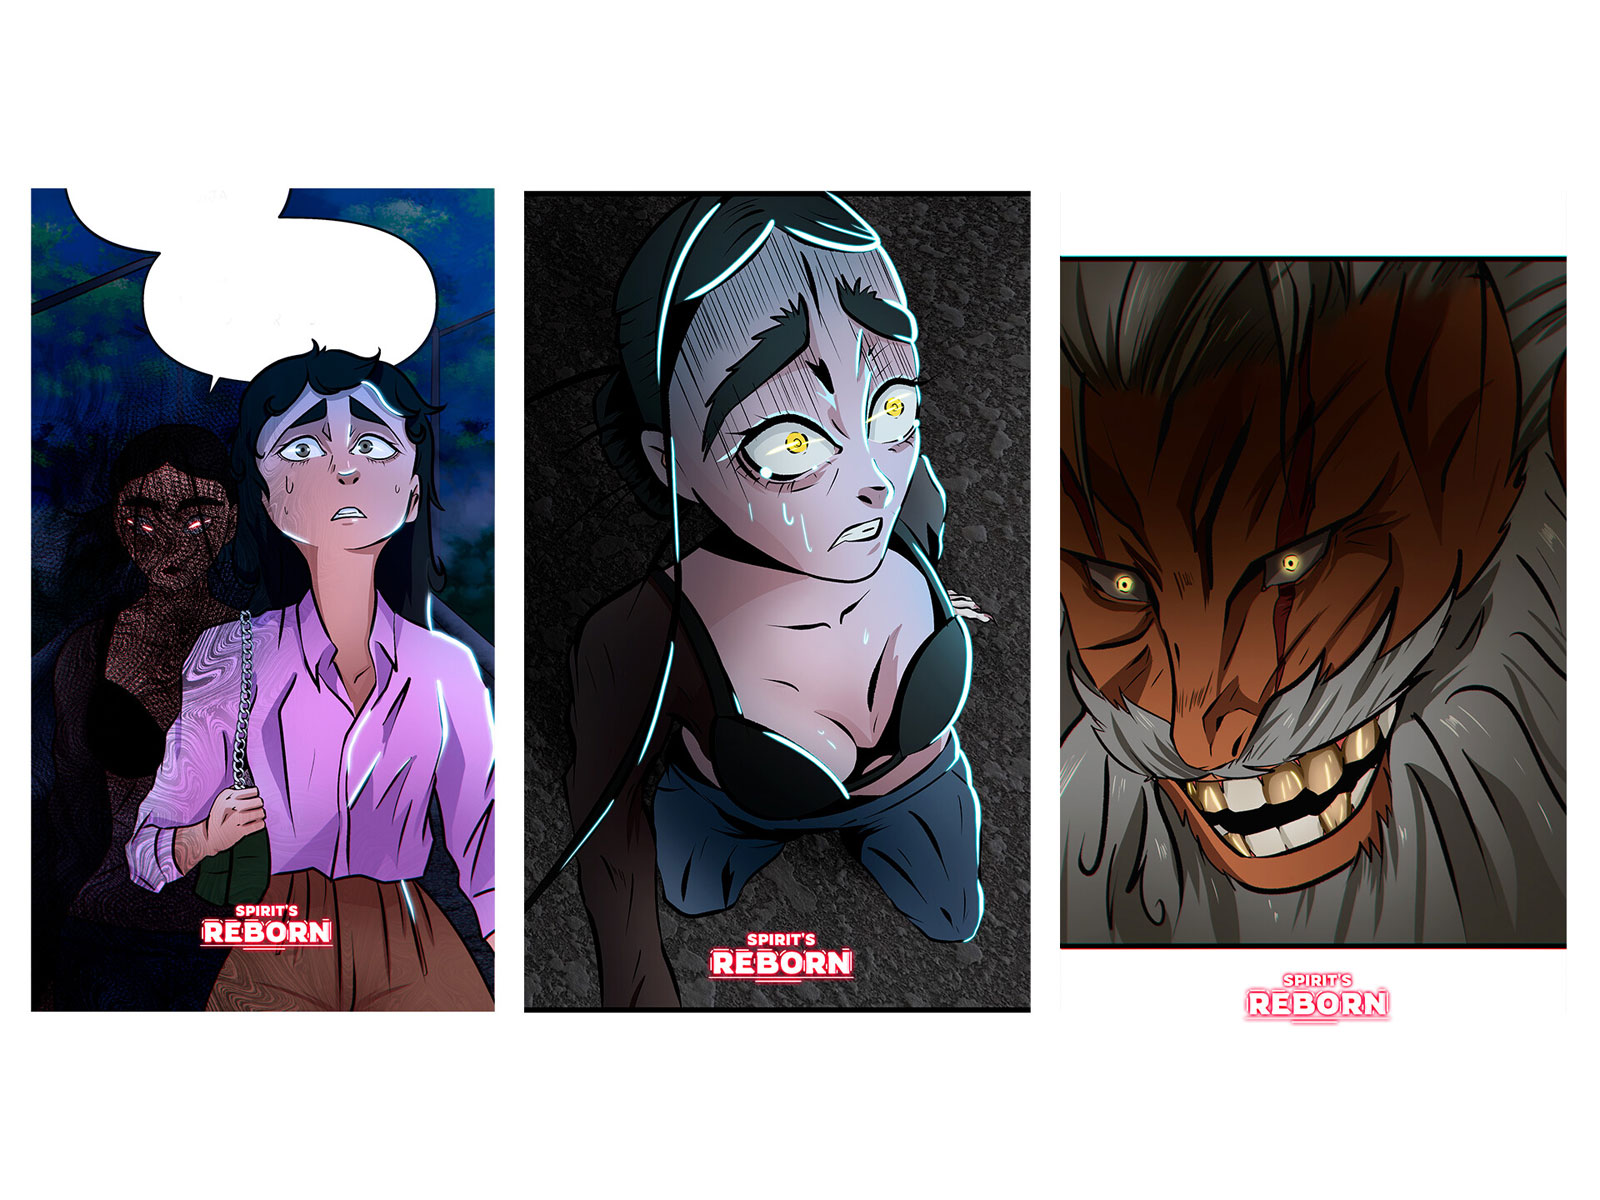
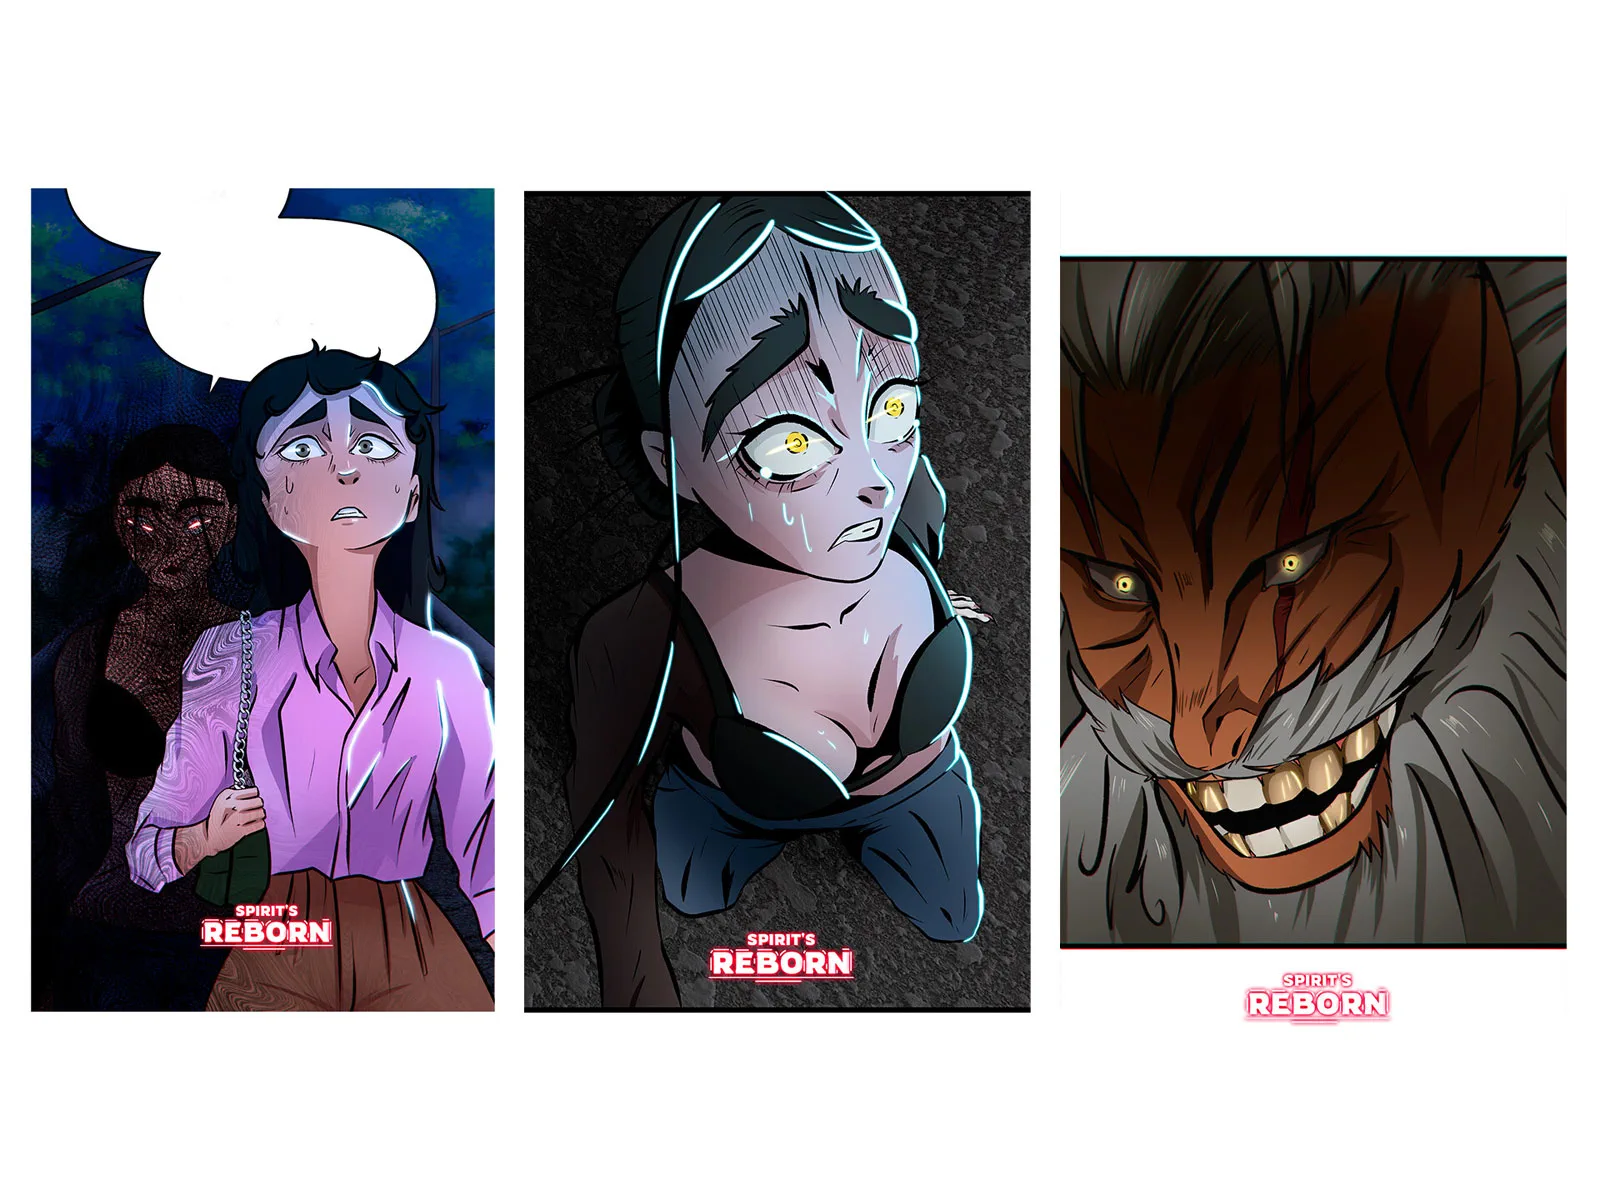
Quita la última redistribución forzada y recomprime las imágenes
`initHeader` leía `window.scrollY` al montar, dentro del DOMContentLoaded,
cuando el documento todavía no ha hecho su primer layout: esa línea sola
obligaba a calcularlo entero en ese instante, dentro de una tarea de
JavaScript y antes del primer pintado. Lighthouse lo contaba como 100 ms de
redistribución forzada, el único aviso que quedaba del informe anterior.

Ahora la primera posición se aprende en el primer evento de scroll, que ya
llega con el layout limpio. Ese primer evento sólo toma nota y no decide
nada: importa cuando el navegador restaura el scroll de una recarga a media
página, porque comparar contra un cero inventado escondería la cabecera nada
más entrar.

Las veinte imágenes de trabajo estaban mal comprimidas —ilustracion.webp
pesaba 459 KB, casi el doble del presupuesto que declara el README—.
Recomprimidas a calidad 82 sin tocar dimensiones: 3,9 MB → 2,1 MB, sin
pérdida visible al 100 % (comprobado sobre una ilustración con detalle fino y
sobre una captura de interfaz con texto pequeño, que es donde WebP se rompe
primero).

No se les baja la resolución a propósito, aunque Lighthouse lo pida: se ven a
~705 px CSS, así que los 1200 px que tienen son los que necesita una pantalla
retina. El aviso sale porque la auditoría corre a DPR 1. Cerrarlo de verdad
sería `srcset`/`sizes` en MediaSlot, no un reescalado.

Reflow forzado de código propio: 100 ms → 0 ms.

Claude-Session: https://claude.ai/code/session_019QAkAGkoq8nooZpfPrXErX

diff --git a/src/scripts/chrome.ts b/src/scripts/chrome.ts
@@ -56,12 +56,25 @@ export function initIntro(): void {
 
 /* --------------------------------------------------------------- CABECERA --
    Se oculta al bajar y reaparece al subir. La dirección se calcula en el
-   evento de scroll, que es pasivo y no lee layout (sólo scrollY).            */
+   evento de scroll, que es pasivo y sólo lee `scrollY`.
+
+   AQUÍ NO SE LEE NADA AL ARRANCAR. La versión anterior hacía
+   `let last = window.scrollY` al montar, y esa línea sola costaba 100 ms de
+   «redistribución forzada» en la auditoría: se ejecuta en el `DOMContentLoaded`,
+   cuando el documento todavía no ha hecho su primer layout, y preguntar por la
+   posición de scroll obliga al navegador a calcularlo entero en ese mismo
+   instante, dentro de una tarea de JavaScript y antes del primer pintado. El
+   trabajo hay que hacerlo igual, pero dejándoselo al navegador lo hace en su
+   propia fase de render, sin bloquear el hilo ni retrasar la pintura.
+
+   Así que la primera posición se aprende en el primer evento de scroll, que ya
+   llega con el layout limpio y cuesta lo que tiene que costar.               */
 export function initHeader(): void {
   const header = document.querySelector<HTMLElement>('[data-header]');
   if (!header) return;
 
-  let last = window.scrollY;
+  // -1 = «todavía no sé dónde estábamos». El primer evento sólo toma nota.
+  let last = -1;
   let ticking = false;
 
   const root = document.documentElement;
@@ -69,13 +82,22 @@ export function initHeader(): void {
   const update = () => {
     ticking = false;
     const y = window.scrollY;
-    const delta = y - last;
 
     header.toggleAttribute('data-pinned', y > 40);
     // Enciende la banda de desenfoque progresivo anclada arriba. Sobre el
     // primer pliegue no hay nada que disolver y se ahorra recomponer ocho
     // backdrops por frame.
     root.toggleAttribute('data-scrolled', y > 40);
+
+    /* Primera vuelta: se registra la posición y no se decide nada. Importa
+       cuando el navegador restaura el scroll de una recarga a media página:
+       comparar contra un 0 inventado escondería la cabecera de entrada. */
+    if (last < 0) {
+      last = y;
+      return;
+    }
+
+    const delta = y - last;
     if (Math.abs(delta) > 6) {
       header.toggleAttribute('data-hidden', delta > 0 && y > 240);
       last = y;

diff --git a/README.md b/README.md
@@ -65,6 +65,22 @@ motivo principal.
 
 **Formato:** WebP o AVIF, calidad 78–82, peso objetivo < 250 KB cada una.
 
+Las veinte actuales ya están recomprimidas a calidad 82 (3,9 MB → 2,1 MB, sin
+pérdida visible al 100 %; los archivos de antes siguen en el historial de git
+por si acaso). **No se les bajó la resolución a propósito**: se ven a ~705 px
+CSS, así que en una pantalla retina hacen falta los 1200 px que tienen.
+Lighthouse las marca como «mal dimensionadas» porque audita a DPR 1; hacerle
+caso ablandaría el sitio justo en las pantallas donde lo mira un cliente de
+diseño. Si alguna vez quieres cerrar ese aviso del todo, la respuesta es
+`srcset`/`sizes` en `MediaSlot.astro` con dos anchos, no un reescalado.
+
+Para una imagen nueva que venga pesada:
+
+```bash
+ffmpeg -i entrada.webp -c:v libwebp -quality 82 -compression_level 6 \
+       -preset picture salida.webp
+```
+
 ### Movimiento en las previsualizaciones
 
 Si quieres que una ficha muestre movimiento, deja un `.mp4` con el mismo
